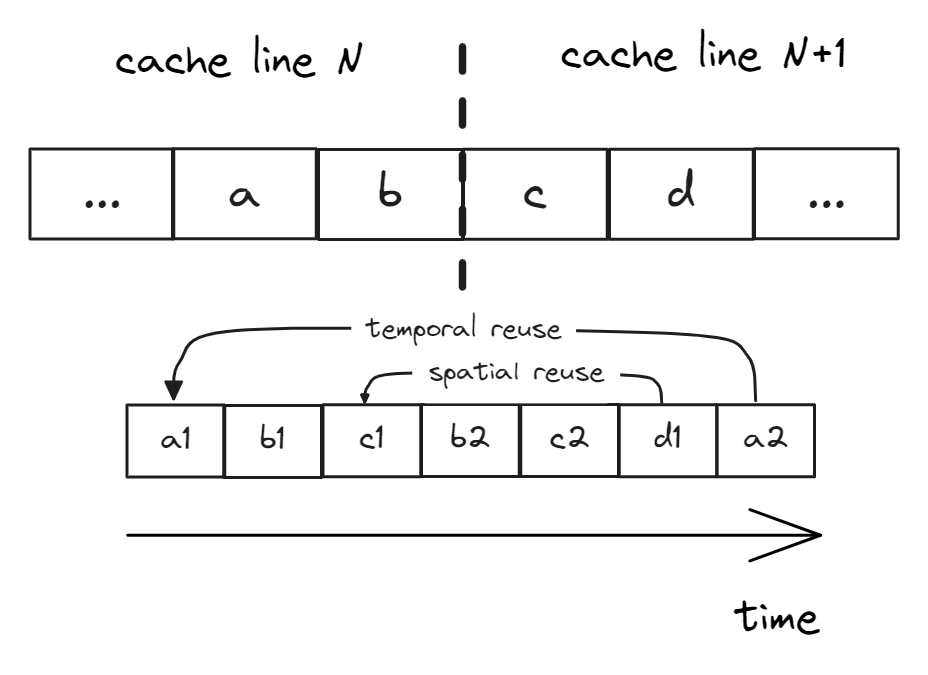
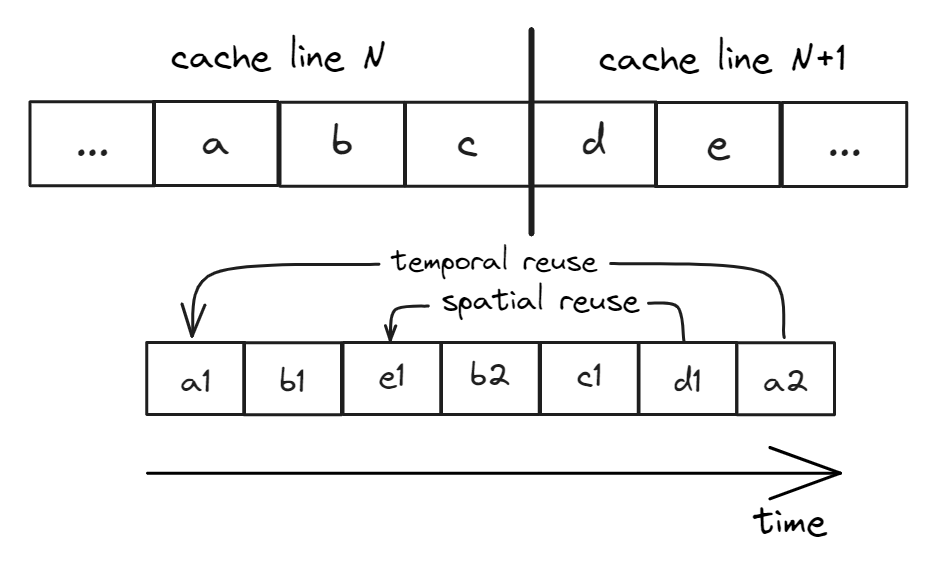
working on reuse distance

Changed region(s): [[0.0312, 0.0312, 0.9688, 0.9359], [0.125, 0.0624, 0.4375, 0.1248], [0.4688, 0.0624, 0.5, 0.1248]]

diff --git a/chapters/8-Optimizing-Memory-Accesses/8-5 Memory Profiling.md b/chapters/8-Optimizing-Memory-Accesses/8-5 Memory Profiling.md
@@ -1,7 +1,7 @@
 ## Memory Profiling {#sec:MemoryProfiling}
 
 For blogpost:
-- which parts were useful/boring/complicated
+- which parts were useful/boring/complicated, which parts need better explanation, etc.
 - suggestions about the tools that I used and if there are a better ones
 
 So far in this chapter, we have discussed a few techniques to optimize memory accesses in a particular piece of code. In this section, we will learn how to collect high-level information about a program's interaction with memory. This process is usually called *memory profiling*. Memory profiling helps you understand how an application uses memory over time and helps you build the right mental model of a program's behavior. Here are some questions it can answer:
@@ -159,52 +159,42 @@ For the transformed version, the memory footprint looks much more consistent wit
 
 In the two scenarios that we explored, we confirmed our understanding of the algorithm by the SDE output. But be aware that you cannot tell whether the algorithm is cache friendly just by looking at the output of the SDE footprint tool. In our case, we simply looked at the code and explained the numbers fairly easily. But without knowing what the algorithm is doing, it's impossible to make the right call. Here's why. The L1 cache in modern x86 processors can only accomodate up to ~1000 cache lines. When you look at the algorithm that accesses, say, 500 lines per 1M instructions, it may be tempting to conclude that the code must be cache friendly, because 500 lines can easily fit into L1 cache. But we know nothing about the nature of those accesses. If those accesses are made in a random fashion, such code is far from being "friendly". The output of the SDE footprint tool merely tells us how much memory was accessed, but we don't know whether those accesses hit in caches or not.
 
-### Case Study: Memory Footprint of Four Benchmarks
+### Case Study: Memory Footprint of Four Workloads
 
-In this case study we will use Intel SDE tool to analyze memory footprint of four production workloads: Blender ray tracing, Stockfish chess engine, Clang++ compilation, and AI_bench PSPNet segmentation.
-In the previous section we 
-As an example of what you could expect to see in real applications, Figure @fig:MemFootCaseStudyFourBench shows the memory footprints of four popular benchmarks. You can see they all have very different behavior. Clang compilation has very high memory activity at the beginning, but decreases after that to about 15MB per 1B instructions. As a developer of Clang trying to improve it, I would be concerned about the two spikes around marks `67` and `76` billion instructions. Are those two spikes to 50MB expected? Could they be related to some memory-hungry optimization passes or they correspond to something else?
+In this case study we will use Intel SDE tool to analyze memory footprint of four production workloads: Blender ray tracing, Stockfish chess engine, Clang++ compilation, and AI_bench PSPNet segmentation. We hope that this study will give you an intuition of what you could expect to see in real-world applications. In the previous section we collected memory footprint per intervals of 28K instructions, which is too small for applications running hundreds of billions of instructions. So, we will measure footprint per one billion instructions.
 
-![Case study of memory footprints of four benchmarks. MEM - total memory accessed during 1B instructions interval. NEW - accessed memory that has not been seen before.](../../img/memory-access-opts/MemFootCaseStudyFourBench.png){#fig:MemFootCaseStudyFourBench width=100%}
+Figure @fig:MemFootCaseStudyFourBench shows the memory footprint of four selected workloads. You can see they all have very different behavior. Clang compilation has very high memory activity at the beginning, sometimes spiking to 100MB per 1B instructions, but after that it decreases to about 15MB per 1B instructions. Any of the spikes on the chart may be concerning to a Clang developer: are they expected? Could they be related to some memory-hungry optimization pass? Can accessed memory locations be compacted?
 
-Blender benchmark is very stable, where we can clearly see the start and end of rendering of each frame. This basically allows us to concentrate on just a single frame, without looking at the entire 1000+ frames. The Stockfish benchmark is a lot more chaotic, probably because the chess engine crunches different positions which require different amount of resources. Finally, the AI_bench memory footprint is very interesting as we can spot repetitive patterns. After the initial startup, there are five or six humps from `40B` to `95B`, then three regions that end with a sharp spike to 200MB, and then again three mostly flat regions hovering around 25MB per 1B instructions. All this could be actionable information that can be used to optimize the application.
+![Case study of memory footprints of four workloads. MEM - total memory accessed during 1B instructions interval. NEW - accessed memory that has not been seen before.](../../img/memory-access-opts/MemFootCaseStudyFourBench.png){#fig:MemFootCaseStudyFourBench width=100%}
 
-Are you still confused about instructions as a measure of time? Let us address that. You can approximately convert the timeline from instructions to seconds if you know the overall IPC for a workload. For instance, at IPC=1 and processor frequency of 4GHz, 1B instructions run in 250 milliseconds, at IPC=2, 1B instructions run in 125 ms, and so on. You can port a memory footprint chart from MB per 1B instructions to MB/s if you measure the IPC of a workload on the target system and observe CPU frequency while it's running.
+Blender benchmark is very stable; we can clearly see the start and the end of each rendered frame. This enables us to focus on just a single frame, without looking at the entire 1000+ frames. The Stockfish benchmark is a lot more chaotic, probably because the chess engine crunches different positions which require different amount of resources. Finally, the AI_bench memory footprint is very interesting as we can spot repetitive patterns. After the initial startup, there are five or six sine waves from `40B` to `95B`, then three regions that end with a sharp spike to 200MB, and then again three mostly flat regions hovering around 25MB per 1B instructions. All this could be actionable information that can be used to optimize the application.
+
+There could still be some confusion about instructions as a measure of time, so let us address that. You can approximately convert the timeline from instructions to seconds if you know the IPC of the workload and the frequency at which a processor was running. For instance, at IPC=1 and processor frequency of 4GHz, 1B instructions run in 250 milliseconds, at IPC=2, 1B instructions run in 125 ms, and so on. This way, you can convert X-axis of a memory footprint chart from instructions to seconds. But keep in mind, that it will be accurate only if the workload has steady IPC and the frequency of the CPU doesn't change while the workload is running.
 
 ### Limitations and Future Research
 
-As you have seen from the two case studies, there is already lots of information you can extract using modern memory profiling tools. Still, there are limitations which we will discuss next.
+As you have seen from the previous case studies, there is a lot of information you can extract using modern memory profiling tools. Still, there are limitations which we will discuss next.
 
-Consider memory footprint chart, for example, shown in Figure @fig:MemFootCaseStudyFourBench. This chart tells us how many bytes were accessed during periods of 1B instructions. However, it doesn't tell us how many times each of those bytes was touched. Recall that it doesn't matter if a memory location was accessed once or twice during a period of 1B intructions, for memory footprint it will be counted only once. 
+Consider memory footprint charts, shown in Figure @fig:MemFootCaseStudyFourBench. Such charts tell us how many bytes were accessed during periods of 1B instructions. However, looking at any of these charts, we couldn't tell if a memory location was accessed once, twice, or hundred times during a period of 1B intructions. Each recorded memory access simply contributes to the total memory footprint for an interval, and is counted once per interval. Knowing how many times per interval each of the bytes was touched, would give us *some* intuition about memory access patterns in a program. For example, we can estimate the size of the hot memory region and see if it fits into the L3.
 
-A naive solution would be to plot a histogram for each period that will tell us how many cache lines were accessed a certain number of times. This will sched some light on the memory access patterns within a program. Figure @fig:MemFtHist shows what such a histogram might look like for three hypothetical programs. Program A (solid line) has bad temporal locality with most of the accesses never repeated (keep in mind the logarothmic scale on both X and Y axis), e.g., copying or streaming data. Program B (dashed line) has better temporal locality with majority of accesses being repeated 4-5 times, e.g., naive matrix multiplication. Program C (dotted line) reuses the same data ~50 times and has a good temporal locality, e.g., matrix multiplication with loop blocking.
+However, even this information is not enough to fully assess temporal locality of the memory accesses. Imagine a scenario, where we have an interval of 1B instructions during which all memory locations were accessed two times. Is it good or bad? Well, we don't know because what matters is the distance between the first (use) and the second access (reuse) to each of those locations. If the distance is small, e.g., less than the number of cache lines that the L1 cache can keep (which is roughly 1000 today), then there is a high chance the data will be reused efficiently. Otherwise, the cache line with required data may already be evicted in the meantime.
 
-<div id="fig:MemFootprintLimitations">
-![A cache line access histogram of three hypothetitical programs.](../../img/memory-access-opts/MemoryFootprintHistogram.png){#fig:MemFtHist width=45%}
-![Reuse Distance](../../img/memory-access-opts/ReuseDistances.png){#fig:ReuseDistances width=45%}
+Also, none of the memory profiling methods we discussed so far gave us insights into spatial locality of a program. Memory usage and memory footprint only tell us how much memory was accessed, but we don't know whether those accesses were sequential, strided or completely random. We need a better approach.
 
-Bla-bla-bla
-</div>
+The topic of temporal and spatial locality of applications has been researched for a long time, unfortunately, as of early 2024, there are no production-quality tools available that would support such analysis. The central metric in measuring data locality of a program is *reuse distance*, which is the number of unique memory locations that are accessed between two consecutive accesses to a particular memory location. Reuse distance shows the likelihood of a cache hit for a memory access in a typical least-recently used (LRU) cache. If the reuse distance of a memory access is larger than the cache size, then the latter access (reuse) is likely to cause a cache miss.
 
-Even though such approach gives you some intuition about memory access patterns in a program, it is not enough to fully assess temporal locality of the memory accesses. Suppose we have an interval of 1B instructions during which all memory locations were accessed twice. Is it good or bad? Well, we don't know because what matters is the distance between the first (use) and the second access (reuse) to each of those locations. If the distance is small, e.g., less than the number of cache lines that L1 cache can keep (which is roughly 1000 today), then there is a high chance the data will be reused efficiently. Otherwise, the cache line with required data may already be evicted in the meantime.
+Since a unit of memory accesses in a modern processor is cache line, we define two additional terms: *temporal reuse* happens when both use and reuse access exactly the same address, while a *spatial reuse* occurs when its use and reuse access different addresses that are located in the same cache line. Consider a sequence of memory accesses shown in Figure @fig:ReuseDistances: `a1,b1,e1,b2,c1,d1,a2`, where locations `a`, `b`, and `c` occupy the same cache line, and locations `d` and `e` reside on the subsequent cache line. In this example, the temporal reuse distance of access `a2` is four, because there are four unique locations accessed between the two consecutive accesses to `a`, namely, `b`, `c`, `d`, and `e`. Access `d1` is not a temporal reuse, however, it is a spatial reuse since we previously accessed location `e`, which resides on the same cache line as `d`. The spatial reuse distance of access `d1` is two.
 
-Another argument against histograms like the one shown in Figure @fig:MemFtHist, is that analyzing a histogram for every period is very time-consuming. Histograms may vary a lot depending on a time interval. As you can see from Figure @fig:MemFootCaseStudyFourBench, some applications (e.g., Stockfish) have very non-steady behavior.
+![Reuse Distance](../../img/memory-access-opts/ReuseDistances.png){#fig:ReuseDistances width=60%}
 
-Finally, none of the approaches we discussed so far gave us insights into spatial locality of a program. Memory usage and memory footprint only tell us how much memory was accessed, but we don't know whether those accesses were sequential, strided or completely random. 
+[TODO]: Describe how tracking reuse distances could help in performance analysis.
 
-I STOPPED HERE
-
-Keep in mind that memory footprint doesn't tell us how much from the accessed memory was actually hot. For example, if the algorithm touches 10 MB/s, we might be interested to know how much of that was hot, i.e., accessed more frequently than the other. But even if we would know that, say, only 1 MB out of 10 MB was hot, it doesn't tell us how cache-friendly the code is. There could be hundreds of cache lines that were accessed only once but those accesses were not prefeteched by the HW and thus missed in caches and were very expensive. Again, we need a better approach to analyze locality of memory accesses.
-
+[TODO]: Describe the modern tools
 [TODO]: give pointers 
 
-[TODO]: From Aditya:
+[TODO]: Conclusion from Aditya:
 I think people do need temporal and spatial locality information for purposes such as predicting cache misses and deciding code transformations. However, the reason why there are fewer memory profilers supporting locality measurement is probably the difficulty to implement it and the overhead it might introduce. To measure data locality, the profiler needs to read the accessed memory addresses one by one and check if there is an exact match among the addresses or the cache lines. If using binary instrumentation, the overhead will be huge as each memory operation has to be intercepted. So this overhead and practicality problem might discourage developers of profilers from adding this feature.
 
-### Case Study: Temporal And Spatial Locality Analysis 
-
-[TODO]: Describe tracking reuse distances
-[TODO]: Can we visualize memory access patterns? Aka memory heatmap over time. Probably no practical tool was ever developed.
 
 [^1]: Intel SDE - [https://www.intel.com/content/www/us/en/developer/articles/tool/software-development-emulator.html](https://www.intel.com/content/www/us/en/developer/articles/tool/software-development-emulator.html).
 [^2]: Heaptrack - [https://github.com/KDE/heaptrack](https://github.com/KDE/heaptrack).
